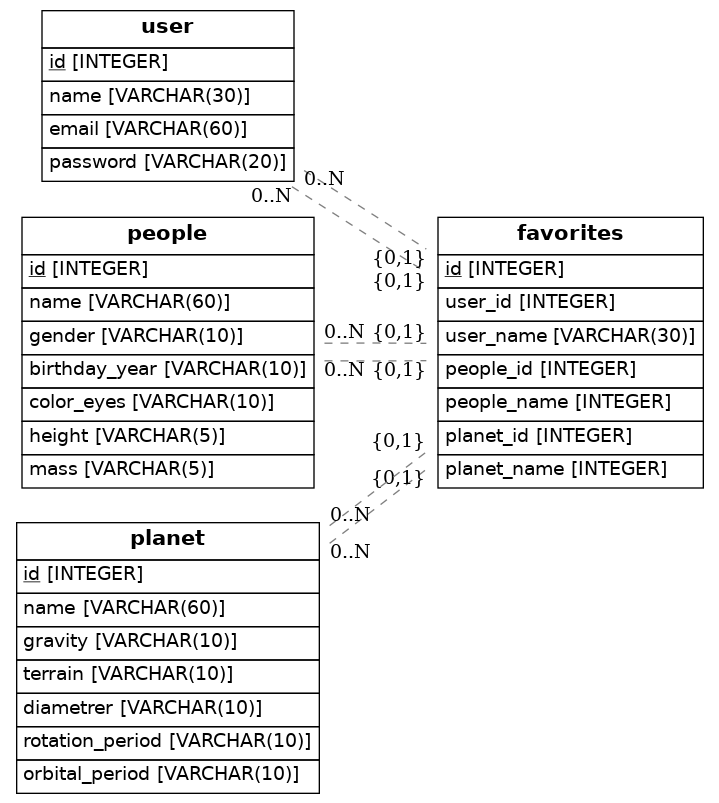
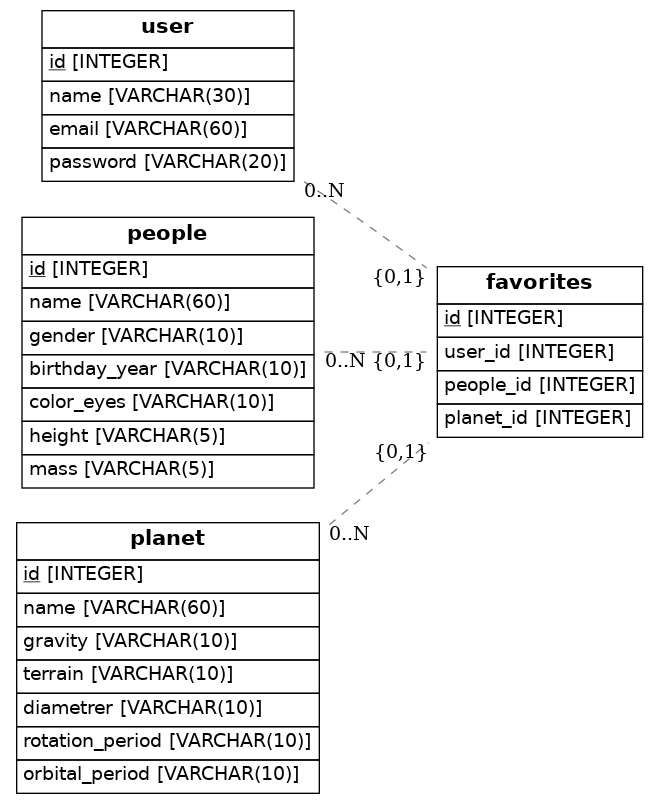
cambio relationship

Changed region(s): [[0.0, 0.0, 1.0, 0.9963]]

diff --git a/src/models.py b/src/models.py
@@ -33,11 +33,9 @@ class Favorites(Base):
     __tablename__ = "favorites"
     id= Column(Integer, primary_key=True)
     user_id = Column(Integer, ForeignKey("user.id"))
-    user_name = Column(String(30), ForeignKey("user.name"))
     people_id = Column(Integer, ForeignKey("people.id"))
-    people_name = Column(Integer, ForeignKey("people.name"))
     planet_id = Column(Integer, ForeignKey("planet.id"))
-    planet_name = Column(Integer, ForeignKey("planet.name"))
+
 
     def __repr__(self):
         return f"<Favorites id={self.id}>"
@@ -62,6 +60,8 @@ class People(Base):
     color_eyes = Column(String(10))
     height = Column(String(5))
     mass = Column(String(5))
+    favorites = relationship('Favorites', backref='People', lazy=True)
+
 
     def __repr__(self):
         return f"<People id={self.id} name= {self.name}>"
@@ -88,6 +88,7 @@ class Planet(Base):
     diametrer = Column(String(10))
     rotation_period = Column(String(10))
     orbital_period = Column(String(10))
+    favorites = relationship('Favorites', backref='Planet', lazy=True)
 
     def __repr__(self):
         return f"<Planet id={self.id} name= {self.name}"
